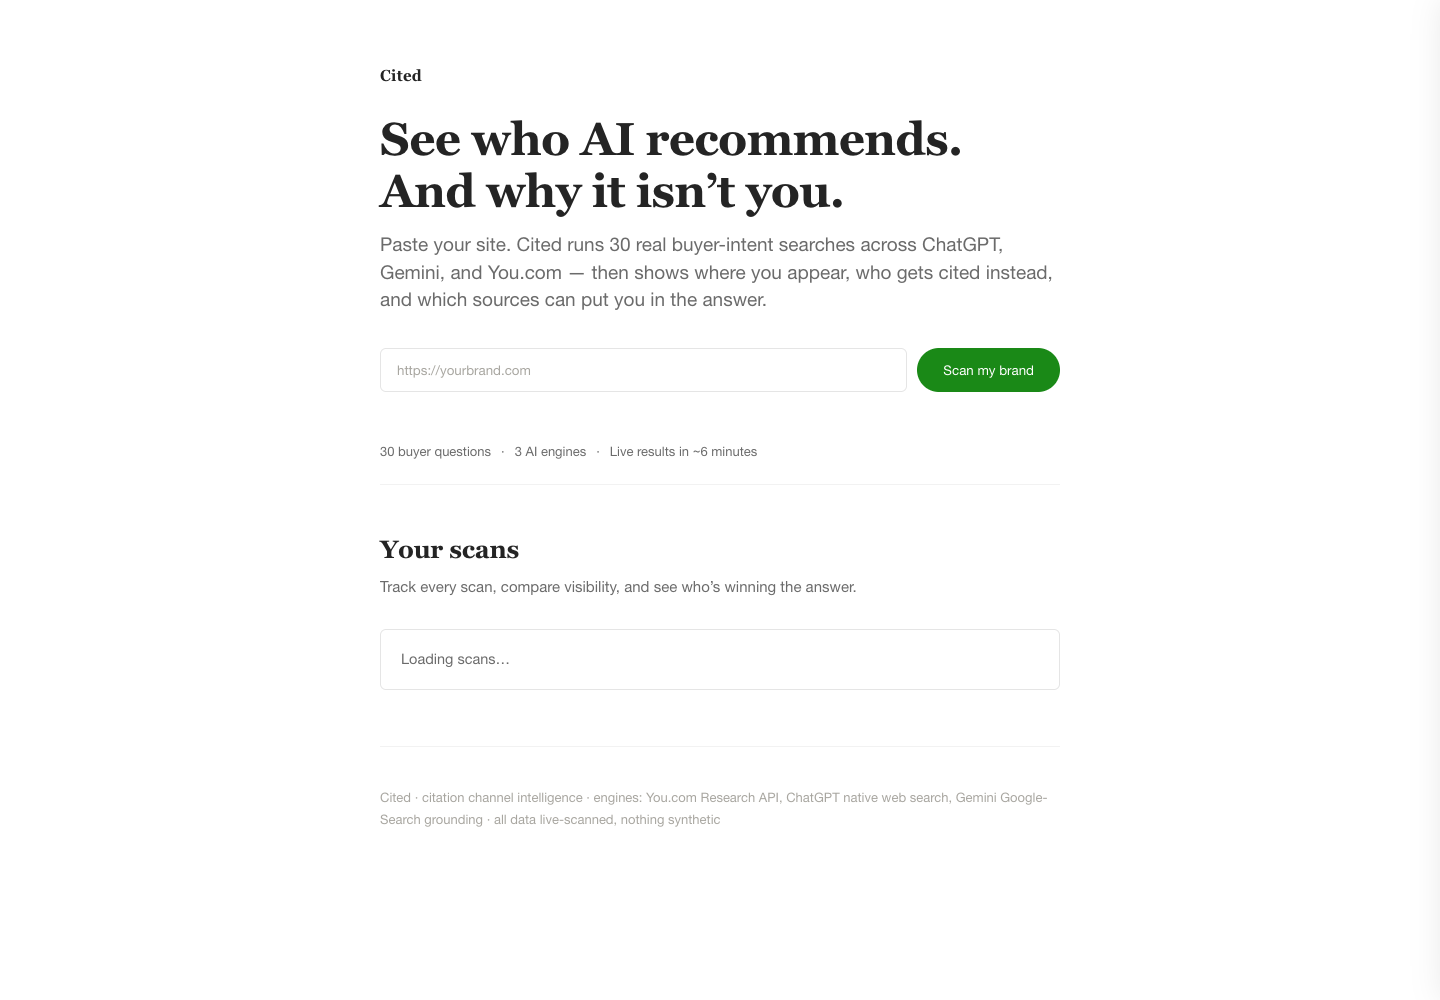
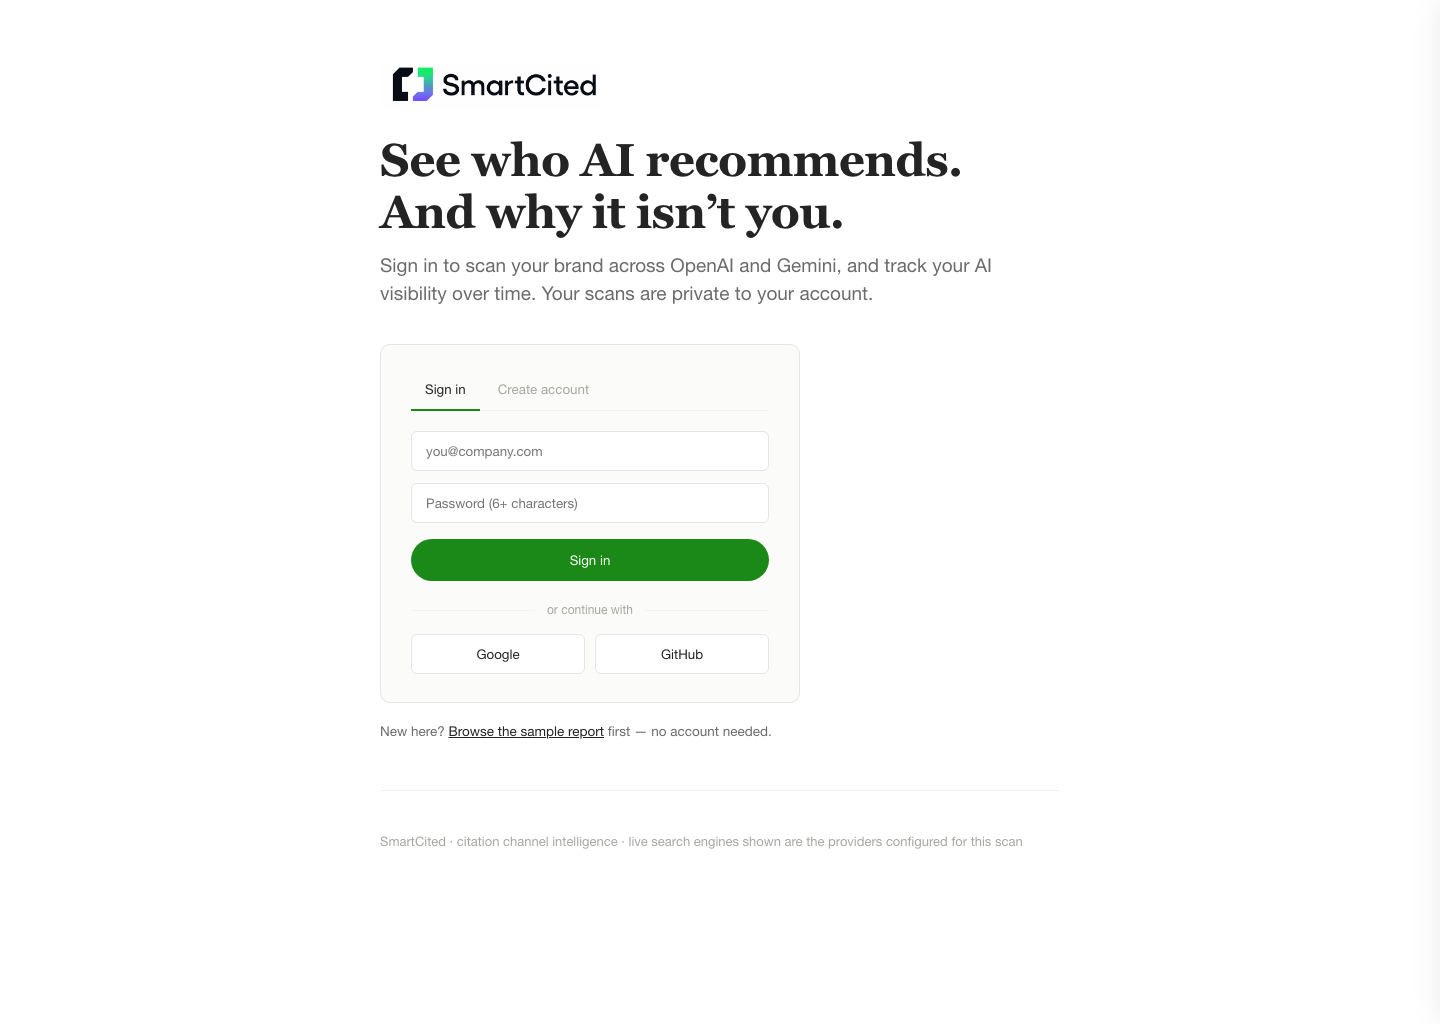
Update SmartCited portfolio project

diff --git a/index.html b/index.html
@@ -4368,20 +4368,21 @@
     </div>
     <div class="feature-grid">
       <article class="feature-card" style="--project-accent:#198f3b">
-        <a class="feature-media" href="https://yct3xd9c.insforge.site" target="_blank" rel="noopener" aria-label="Open Cited">
+        <a class="feature-media" href="https://smartcited.com" target="_blank" rel="noopener" aria-label="Open SmartCited">
           <div class="feature-window">
-            <div class="feature-window-bar"><span class="feature-window-dots"><i></i><i></i><i></i></span><span>AI-search intelligence · Live</span></div>
-            <img src="assets/preview-cited.png" alt="Cited AI-search citation intelligence interface" loading="lazy">
+            <div class="feature-window-bar"><span class="feature-window-dots"><i></i><i></i><i></i></span><span>AI visibility actions · OpenAI Build Week</span></div>
+            <img src="assets/preview-cited.png" alt="SmartCited AI-search citation intelligence interface" loading="lazy">
           </div>
         </a>
         <div class="feature-copy">
-          <div class="feature-kicker"><span class="feature-no">Selected 01</span><span>Hackathon build · 2026</span></div>
-          <h3 class="feature-title"><a href="https://yct3xd9c.insforge.site" target="_blank" rel="noopener">Cited</a></h3>
-          <p class="feature-summary">Built an AI-search visibility scanner that runs 30 buyer-intent questions across ChatGPT, Gemini and You.com, then turns <em>90 answers and every citation</em> into a channel-by-channel action plan.</p>
-          <div class="feature-proof"><span>30 buyer questions</span><span>3 AI engines</span><span>Citation evidence</span></div>
+          <div class="feature-kicker"><span class="feature-no">Selected 01</span><span>OpenAI Build Week · 2026</span></div>
+          <h3 class="feature-title"><a href="https://smartcited.com" target="_blank" rel="noopener">SmartCited</a></h3>
+          <p class="feature-summary">Built an AI-visibility action system for local businesses: it asks <em>10 leakage-checked discovery questions</em> through OpenAI and Gemini, preserves the citation evidence, then prepares customer-authorized website, Yelp and directory actions.</p>
+          <div class="feature-proof"><span>10 unbranded questions</span><span>OpenAI + Gemini</span><span>Authorized actions</span></div>
           <div class="feature-links">
-            <a class="feature-link" href="https://yct3xd9c.insforge.site" target="_blank" rel="noopener">Try it live <span class="arrow">↗</span></a>
-            <a class="feature-link" href="https://github.com/ReddWu/Prefind" target="_blank" rel="noopener">View source <span class="arrow">↗</span></a>
+            <a class="feature-link" href="https://smartcited.com/#/scan/sample" target="_blank" rel="noopener">Try the demo <span class="arrow">↗</span></a>
+            <a class="feature-link" href="https://devpost.com/software/smartcited" target="_blank" rel="noopener">View submission <span class="arrow">↗</span></a>
+            <a class="feature-link" href="https://github.com/ReddWu/Cited" target="_blank" rel="noopener">View source <span class="arrow">↗</span></a>
           </div>
         </div>
       </article>
